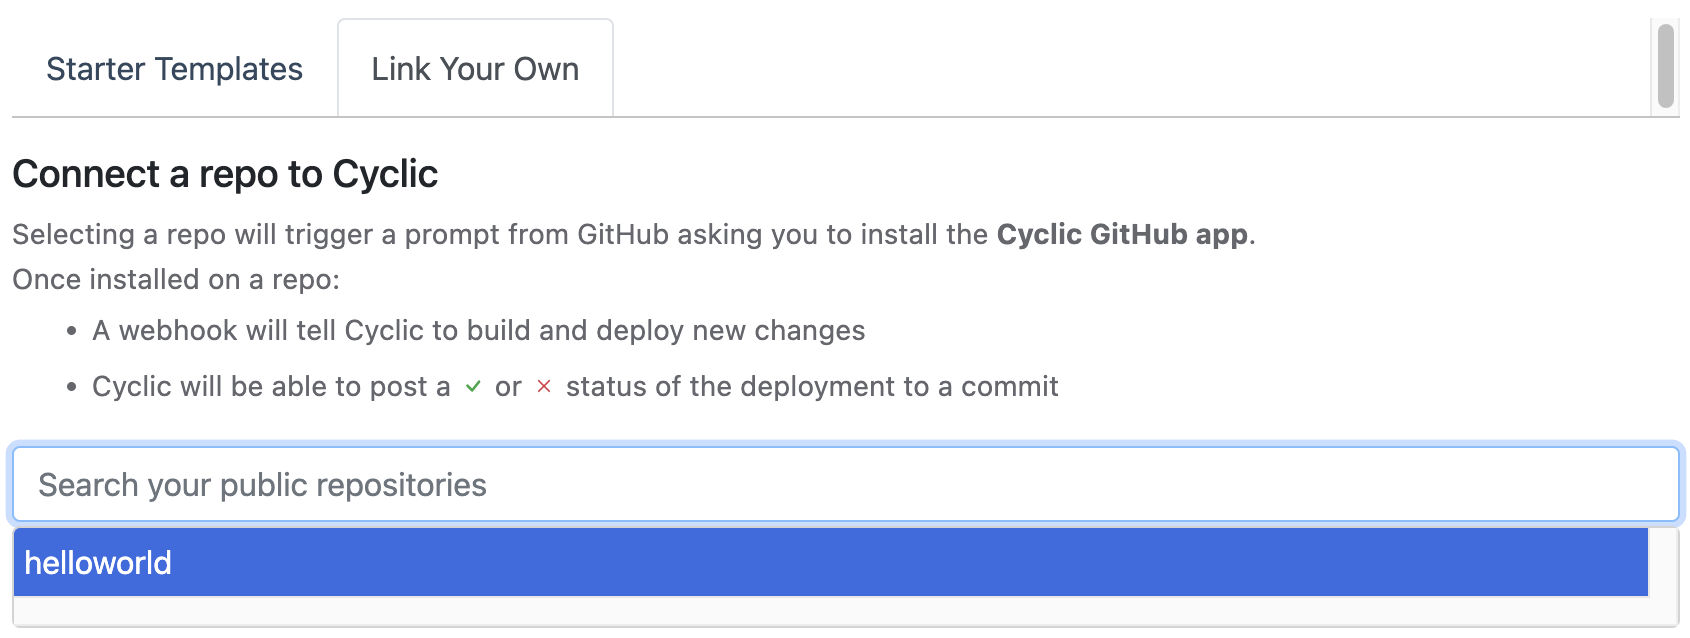
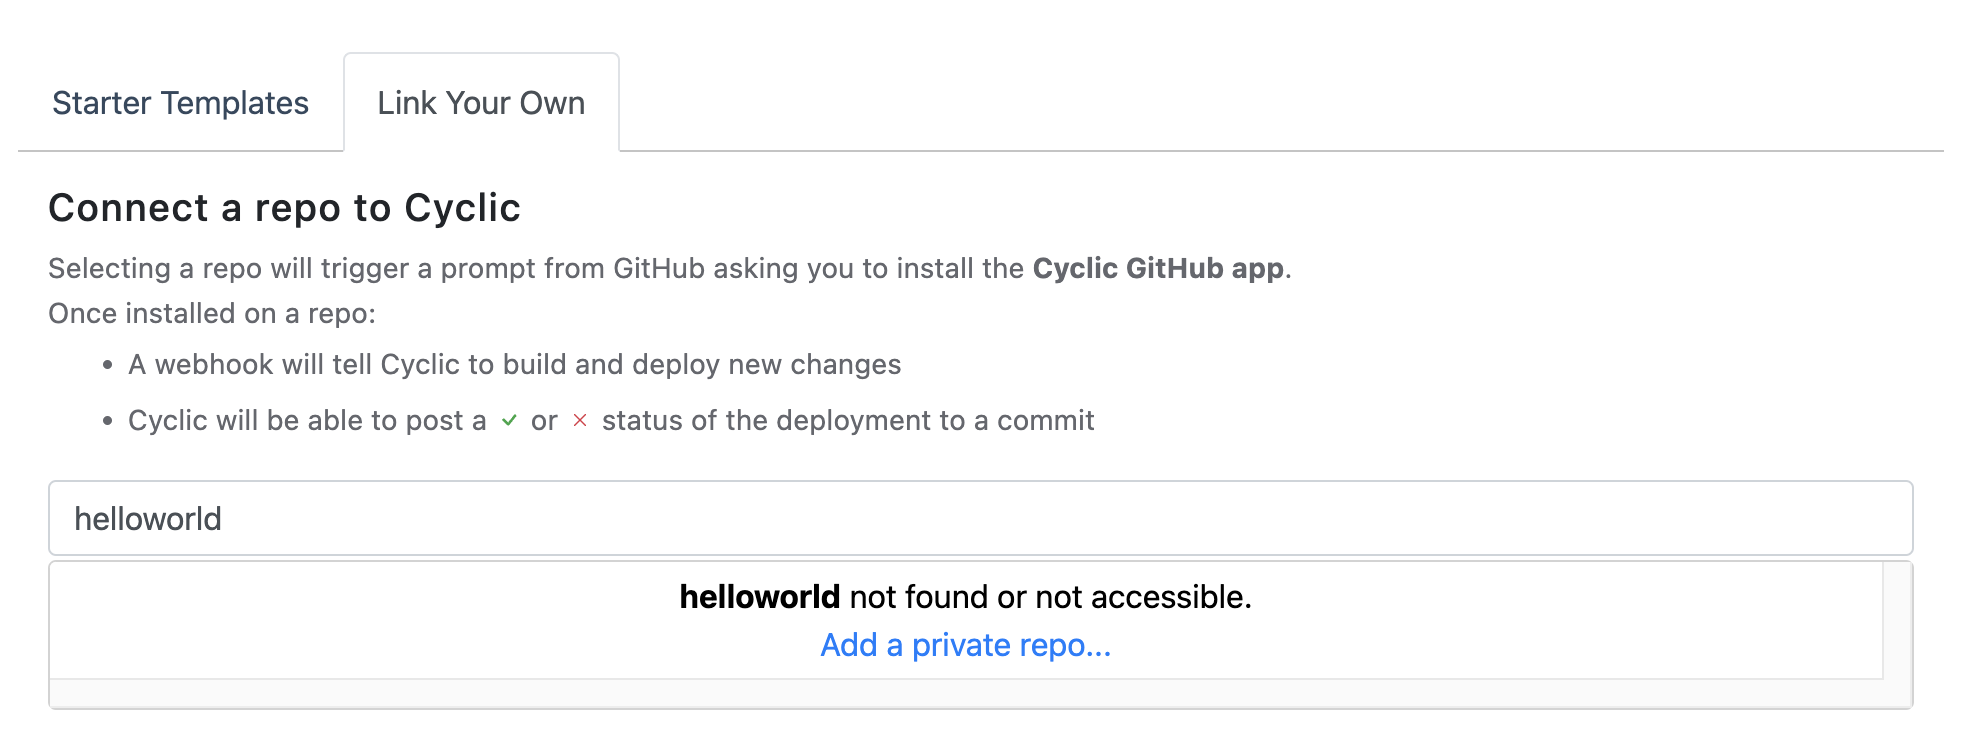
fixed guide for new private instructions

diff --git a/getting-started-with-cyclic.md b/getting-started-with-cyclic.md
@@ -188,19 +188,19 @@ With our code finally online, we can sign into Cyclic and give it access to our 
 
       ![Cyclic Create a New App](/media/cyclic-1.png)
 
-4. At the top of the page, switch to the "Link Your Own" tab and locate your private GitHub repository hosting your code (in this case "helloworld")
+5. At the top of the page, switch to the "Link Your Own" tab and begin typing the name of the your private GitHub repository hosting your code (in this case "helloworld")
 
       ![Cyclic Link GitHub](/media/cyclic-2.png)
 
-5. Once your repository is selected, click the "Connect" button
+6. You will see that the repository is not found (this is because it is 'private') - proceed to click the "Add a private repo...".  This will open a new window to configure GitHub for Cyclic.  You can leave "all repositories" selected and click "Approve and install"
 
-6. Confirm access to the repository by once again entering your GitHub password
+      ![Cyclic Link GitHub](/media/cyclic-3.png)
 
-7. Use the default settings for "Repository Access", ie: "Only Select Repositories", with your GitHub repository (ie: "helloworld" selected) and click **"Approve and Install"**
+7. Select your newly added repository from the list and click the "Connect" button
 
-      ![Github Approve and Install Cyclic](/media/cyclic-3.png)
+8. Confirm access to the repository by once again entering your GitHub password
 
-8.  Your code will now take a moment to build.  Once it's complete, you should see some confetti and the text **"You're Live!"** beneath the build log.  From here you can an click the "Go to Dashboard" button to see information about your deployed app, including the generated link to view it live!
+9.  Your code will now take a moment to build.  Once it's complete, you should see some confetti and the text **"You're Live!"** beneath the build log.  From here you can an click the "Go to Dashboard" button to see information about your deployed app, including the generated link to view it live!
 
 <br>
 
